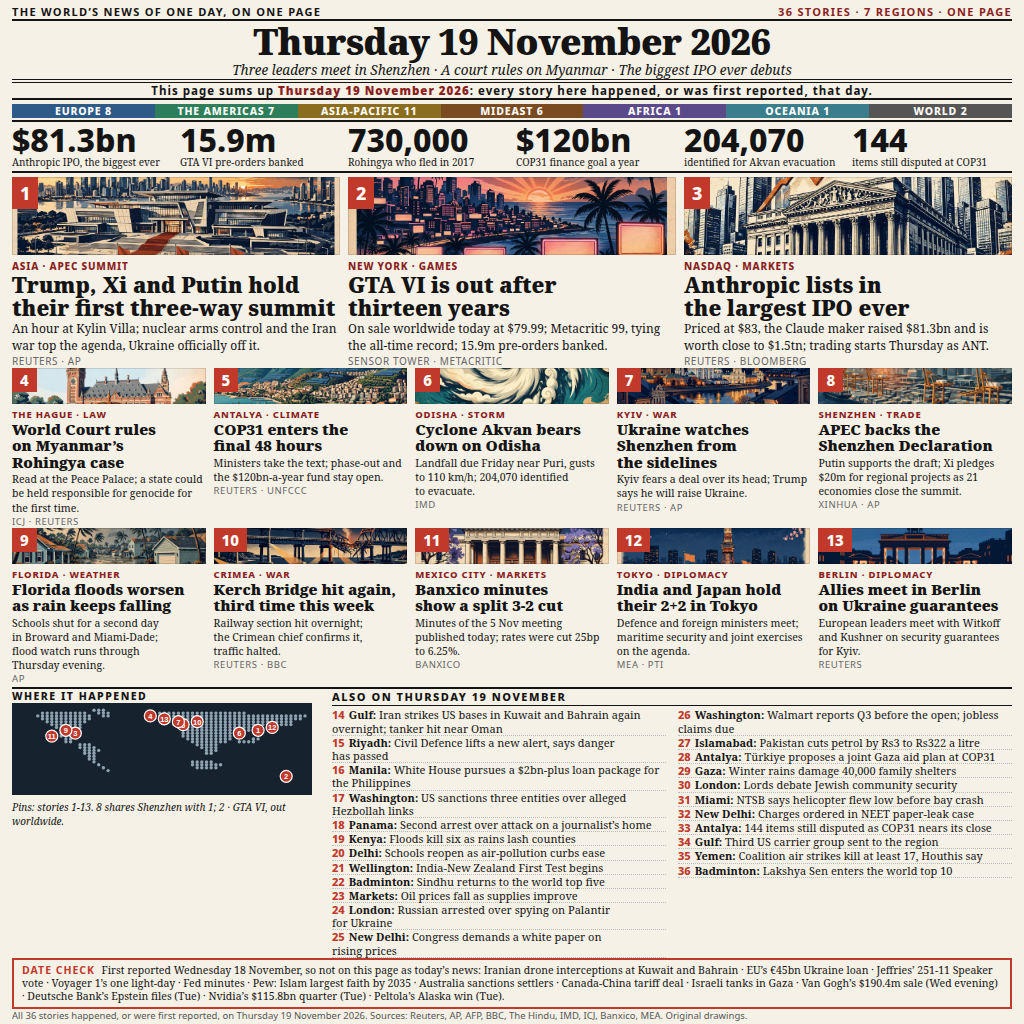
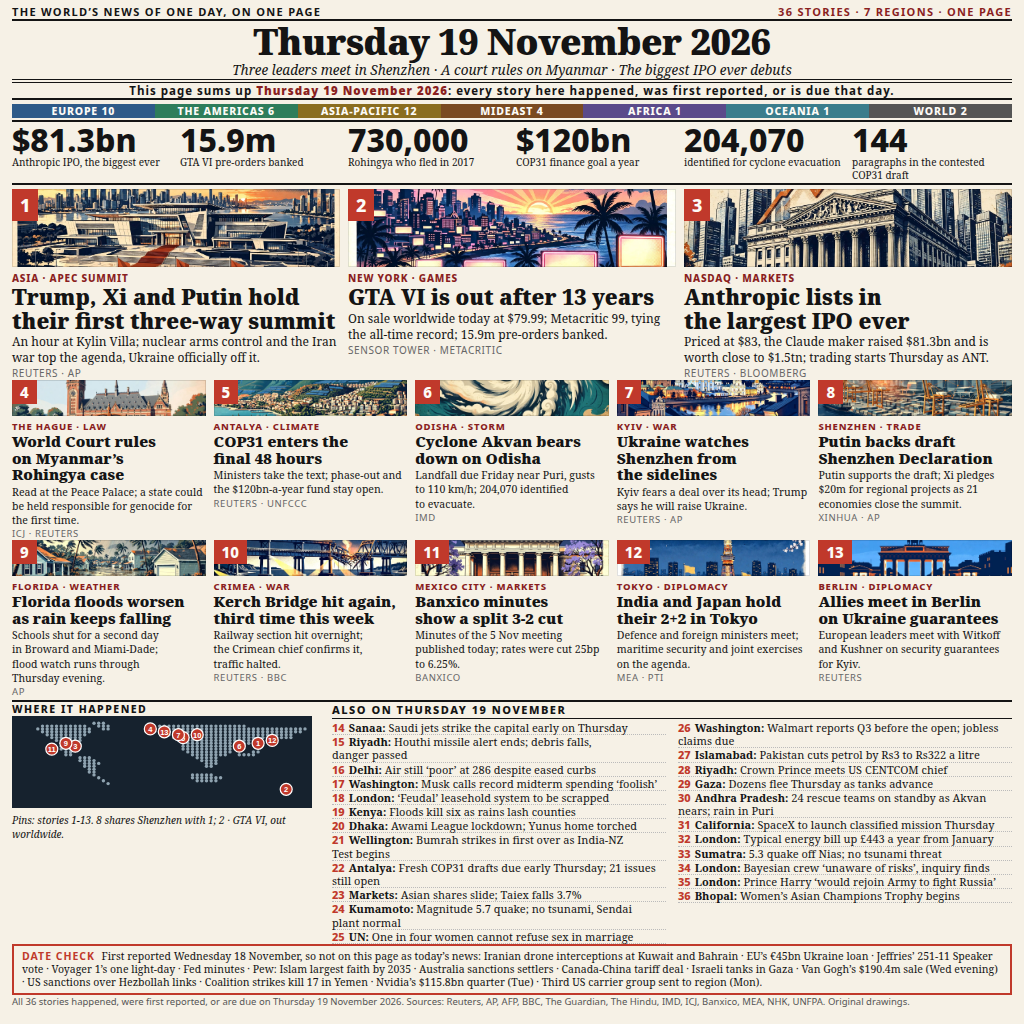
news-image-20261119: revision round 3 — rebuild briefs with verified 19 Nov news, fix lead 8 draft wording, brighten dark panels
- 13 date slips + 1 wrong brief + 1 generic + 2 borderline replaced with
  18 verified 19 Nov items (Sanaa, MBS/CENTCOM, Delhi AQI, Dhaka lockdown,
  Gaza displacement, COP31 drafts, Asian shares, Kumamoto + Sumatra quakes,
  UNFPA, SpaceX, Musk, leasehold, energy bills, Bayesian, Prince Harry,
  women's hockey); 5 keepers strengthened (Riyadh, Kenya, NZ Test, Walmart,
  Pakistan petrol). Date anchor now true: 'happened, was first reported,
  or is due that day'.
- Lead 8 headline: 'APEC backs the Shenzhen Declaration' -> 'Putin backs
  draft Shenzhen Declaration' (adoption unconfirmed; body already said
  $20m, which was correct).
- Lead 2: 'thirteen years' -> '13 years' (judge misread it as seventeen).
- Stat 144: 'items still disputed' -> 'paragraphs in the contested
  COP31 draft'; stat 204,070 label -> 'identified for cyclone evacuation'
  (judge kept misreading 'Akvan').
- Brightness lift for dark photo panels (Kerch 61->89, India-Japan
  66->94, Berlin 71->106 mean luminance).
- DATE CHECK gains Hezbollah sanctions, Yemen strikes, third carrier
  group (Mon); drops Deutsche Bank Epstein files + Peltola (Tue).
- Sloplint 40 FAIL / 0 WARN, all in deliberately rejected categories
  (eyebrow tags, dot-joined meta, tracked caps); 0 fixable FAILs.
- main.ts untouched (70246af). Build deterministic, 3 runs byte-identical.
- Preview only: no bundle, no submit.

diff --git a/README.md b/README.md
@@ -4,7 +4,7 @@
 [![rank](https://make.fun/badge/news-image-20261119/pesertaerdrop/news-image-19nov-entry/rank.svg)](https://make.fun/bounty/news-image-20261119/leaderboard?utm_source=github&utm_medium=readme&utm_campaign=news-image-20261119)
 [![reward](https://make.fun/badge/news-image-20261119/pesertaerdrop/news-image-19nov-entry/reward.svg)](https://make.fun/bounty/news-image-20261119?utm_source=github&utm_medium=readme&utm_campaign=news-image-20261119)
 
-**Thursday 19 November 2026: the world in one image — 36 stories, three leaders, one debut** — 36 stories, 7 regions, one page. Thirteen illustrated lead stories (the first-ever Trump–Xi–Putin trilateral in Shenzhen, GTA VI's release after thirteen years, Anthropic's record $81.3bn IPO debut, the World Court's Myanmar ruling, COP31's final 48 hours, Cyclone Akvan, Ukraine watching Shenzhen, APEC's Shenzhen Declaration, Florida's second day of floods, the Kerch Bridge hit again, Banxico's split minutes, the India–Japan 2+2, and allies meeting in Berlin), a world map of where it happened, 23 more briefs, a six-number stat strip and a date check of what was deliberately left out. Every story happened, or was first reported, on Thursday 19 November 2026. All thirteen illustrations were generated from structured prompts built with prompts.chat (`npx prompts.chat`); the page itself is HTML/CSS rendered to a 1024×1024 PNG, and the program simply copies that image to the output.
+**Thursday 19 November 2026: the world in one image — 36 stories, three leaders, one debut** — 36 stories, 7 regions, one page. Thirteen illustrated lead stories (the first-ever Trump–Xi–Putin trilateral in Shenzhen, GTA VI's release after 13 years, Anthropic's record $81.3bn IPO debut, the World Court's Myanmar ruling, COP31's final 48 hours, Cyclone Akvan, Ukraine watching Shenzhen, the draft Shenzhen Declaration, Florida's second day of floods, the Kerch Bridge hit again, Banxico's split minutes, the India–Japan 2+2, and allies meeting in Berlin), a world map of where it happened, 23 more briefs, a six-number stat strip and a date check of what was deliberately left out. Every story happened, was first reported, or is due on Thursday 19 November 2026. All thirteen illustrations were generated from structured prompts built with prompts.chat (`npx prompts.chat`); the page itself is HTML/CSS rendered to a 1024×1024 PNG, and the program simply copies that image to the output.
 
 ## Run it
 
